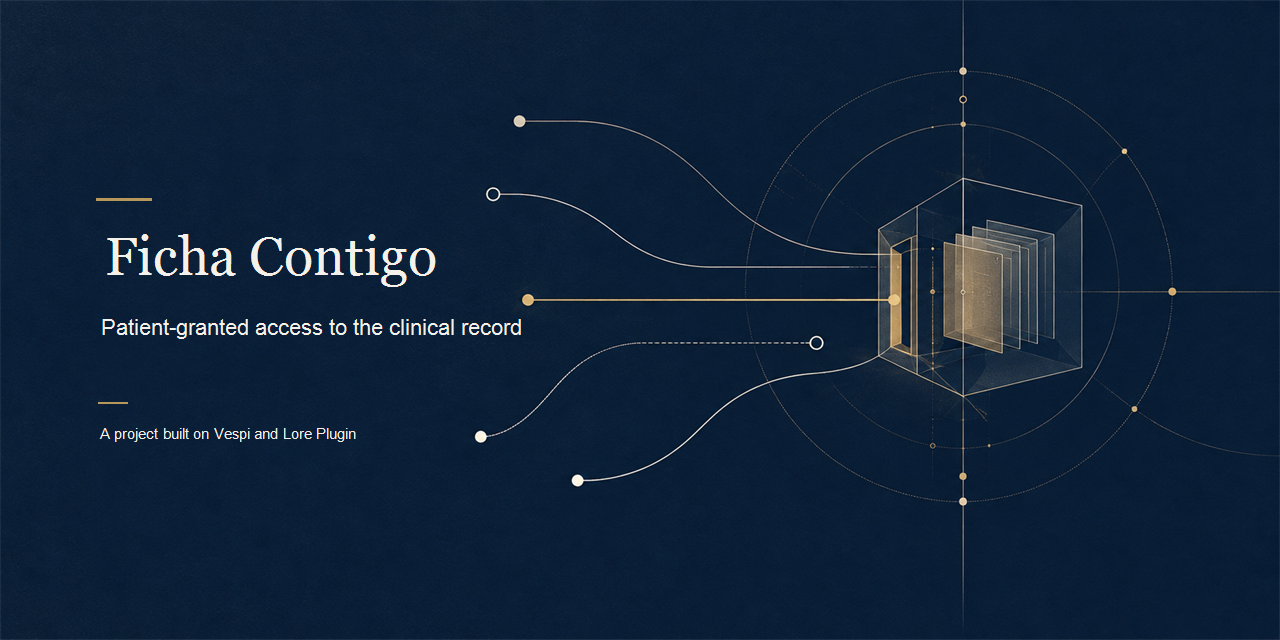
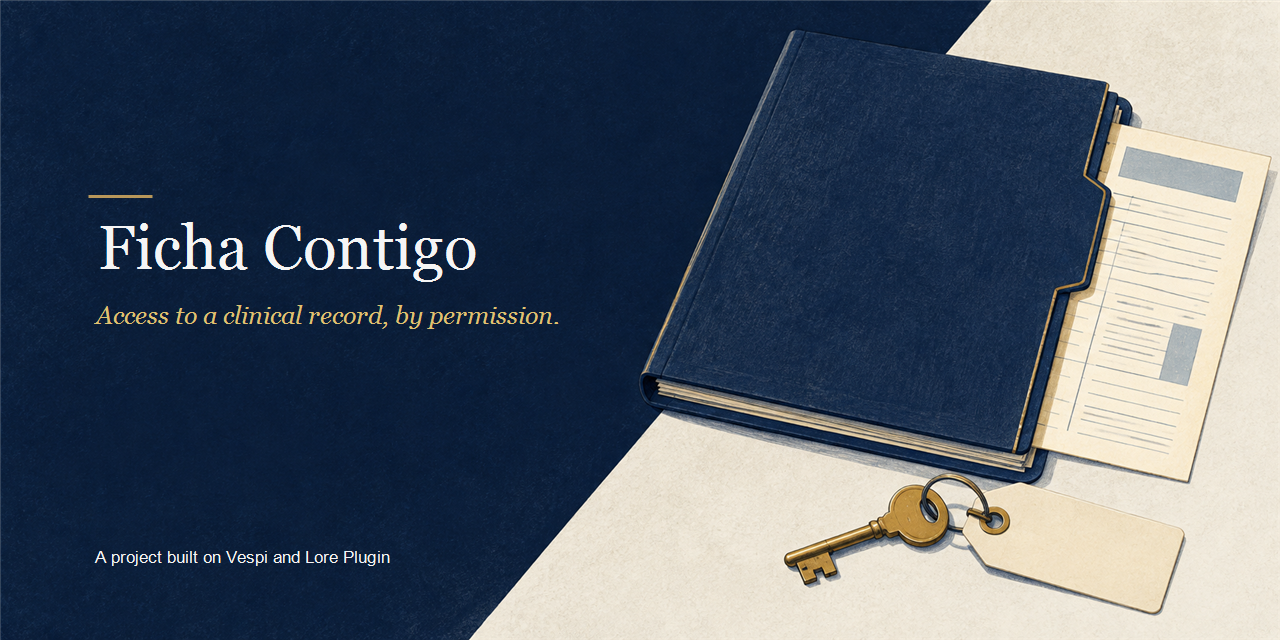
README rewritten to the Lore Plugin level: usage example, own cover, fixed badges, developed ideas
Claude-Session: https://claude.ai/code/session_01MzacQCHxRj488GX1bfBMgo

diff --git a/README.md b/README.md
@@ -1,78 +1,139 @@
-[![Ficha Contigo: patient-granted clinical record access](./assets/cover.png)](./assets/cover.png)
+[![Ficha Contigo: patient-granted access to a clinical record](./assets/cover.png)](./assets/cover.png)
 
 # Ficha Contigo
 
 <p align="center">
-  <a href="#english"><img src="https://img.shields.io/badge/status-working_path-D7B698?style=for-the-badge&labelColor=07111A" alt="Status: working path"></a>
+  <a href="#espanol"><img src="https://img.shields.io/badge/status-working_path-D7B698?style=for-the-badge&labelColor=07111A" alt="Status: working path"></a>
   <a href="./LICENSE"><img src="https://img.shields.io/badge/license-review--only-D7B698?style=for-the-badge&labelColor=07111A" alt="License: review only"></a>
   <a href="./docs/EVIDENCE.md"><img src="https://img.shields.io/badge/suite-7_of_13-E0C170?style=for-the-badge&labelColor=07111A" alt="Suite: 7 of 13 pass today"></a>
-  <a href="./docs/HOW_IT_WORKS.md"><img src="https://img.shields.io/badge/agreement-before_code-D7B698?style=for-the-badge&labelColor=07111A" alt="Agreement before code"></a>
-  <a href="https://github.com/andresanemic/vespi"><img src="https://img.shields.io/badge/built_with-Vespi_%C2%B7_Lore_Plugin-E0C170?style=for-the-badge&labelColor=07111A" alt="Built with Vespi and Lore Plugin"></a>
+  <a href="./docs/HOW_IT_WORKS.md"><img src="https://img.shields.io/badge/agreement-written_before_code-D7B698?style=for-the-badge&labelColor=07111A" alt="Agreement written before code"></a>
+  <a href="https://github.com/andresanemic/vespi"><img src="https://img.shields.io/badge/built_with-Vespi_and_Lore_Plugin-E0C170?style=for-the-badge&labelColor=07111A" alt="Built with Vespi and Lore Plugin"></a>
 </p>
 
-<p align="center">
-  <b>Ficha Contigo puts each patient's permission at the door: a provider can use only the record part, purpose and time the patient granted.</b><br><br>
-  Emergency access is granted in advance, leaves an immediate receipt and stays open for a human review.
-</p>
-
-<p align="center">
-  Do you build on Stellar, or are you judging Find Your Way or Meridian? Start with the agreement, then inspect the flow and the evidence.
-</p>
-
-<p align="center">
-  This repository contains the project agreement, documentation and recorded evidence, not the source code. The code will open during the judges' review period under a review-only license that permits reading and cloning for evaluation.
-</p>
-
----
-
-<details>
+<details open>
 <summary><b>Read in English</b></summary>
 
 <a id="english"></a>
 
-**Ficha Contigo is a local prototype that makes patient-granted clinical record access visible, scoped and reviewable.**
+**Ficha Contigo gives a patient a visible say over who may open each part of a clinical record, for what purpose and for how long.**
 
-> **Its unit is the part of the record the patient allowed, for a purpose, until a time.**
+> **The unit is the part of the record the patient allowed, for a purpose and until a time. Emergency access is granted in advance.**
 
-All people, institutions and records are fictional; no real health or identifying data is present. The agreement, workflow and boundaries are explained in [`docs/HOW_IT_WORKS.md`](./docs/HOW_IT_WORKS.md).
+## The problem
 
-**Why.** When a person gives clinical data to an institution, it can be hard for them to see who asked for which part, for what purpose, and what was accessed. An urgent situation can also leave the patient unable to answer at the time. Ficha Contigo explores a clear boundary: a professional's reason alone does not grant access. [`docs/HOW_IT_WORKS.md`](./docs/HOW_IT_WORKS.md) explains the patient-granted scope and advance emergency mandate.
+When a person hands clinical information to an institution, the relationship can become hard to inspect from the patient's side. Which professional asked for which part? For what purpose? What was actually opened? A professional may have a sound reason to ask, but the reason alone does not tell the patient what crossed the boundary. And when the patient cannot answer during an emergency, a team may face an uncomfortable choice between waiting and improvising access.
 
-**If you are judging Find Your Way or Meridian, start here.**
+Ficha Contigo makes that boundary the subject of a small local prototype. The patient grants a named part of a fictional record, for a declared purpose, at a named institution, within a time window and use budget. A separate emergency mandate can be granted beforehand. If used, it leaves an immediate record and a human review that stays open until the patient or a designated reviewer closes it.
 
-1. **Read the agreement.** [`docs/HOW_IT_WORKS.md`](./docs/HOW_IT_WORKS.md) sets out the patient-granted rules.
-2. **Follow one request.** [`docs/HOW_IT_WORKS.md`](./docs/HOW_IT_WORKS.md#a-request-from-start-to-finish) walks through the ordinary and emergency paths.
-3. **Open the evidence.** [`docs/EVIDENCE.md`](./docs/EVIDENCE.md) reports the suite and recorded walkthrough.
-4. **Read the limits.** [`docs/LEGAL_AND_LIMITS.md`](./docs/LEGAL_AND_LIMITS.md) records the legal context and open questions.
-5. **Check what remains unverified.** [`docs/EVIDENCE.md`](./docs/EVIDENCE.md#current-suite) and [`docs/LEGAL_AND_LIMITS.md`](./docs/LEGAL_AND_LIMITS.md#what-the-project-does-not-establish) explain the current status and limits.
+## If you are judging Find Your Way or Meridian, start here
+
+Read the project foundation and its walkthrough. Start with [How it works](./docs/HOW_IT_WORKS.md).
+
+Open the test record. See [Evidence](./docs/EVIDENCE.md).
+
+Read the legal and verification limits. See [Legal and limits](./docs/LEGAL_AND_LIMITS.md).
+
+Review the publication conditions. See [Code not included](./docs/CODE_NOT_INCLUDED.md) and the [review-only license](./LICENSE).
 
 ## In one minute
 
-The fictional request, its checks, receipts and emergency review are shown in [`docs/HOW_IT_WORKS.md`](./docs/HOW_IT_WORKS.md#a-request-from-start-to-finish).
+In the recorded fictional case, `persona-1` has three example parts: a laboratory result, an imaging report and personal history. `prof-1` first asks for the laboratory result to continue treatment. The request is blocked because a stated purpose is not permission. The patient then grants only that part, at one institution, for two accesses and until a stated date. One in-scope read is recorded as verified and returns an example value. A request for the imaging report falls outside the grant and is blocked. Later, the patient can revoke the permission without erasing the earlier read. For an emergency, she has separately granted a mandate in advance; exercising it opens a review that remains pending until she closes it. All people, institutions, record contents and values in this walkthrough are fictional.
 
-## Why Ficha Contigo
+## What it looks like in practice
 
-In the intended model, the clinical record stays with the institution; this local prototype does not connect to one. The agreement document explains the access rules, and [`docs/LEGAL_AND_LIMITS.md`](./docs/LEGAL_AND_LIMITS.md) lists what the prototype does not establish.
+The English lines below render the Spanish output recorded by the terminal walkthrough. The source transcript marks its value as an example, and the Spanish section reproduces that output. This public repository does not include source code or a runnable command today.
+
+```text
+Fictional example: persona-1, prof-1, part-1
+part-1  laboratory result  v1
+
+Request, before the patient grants access
+status:   blocked
+detail:   no authorization for prof-1 to open part-1: a stated purpose does not open the door
+exit:     return to the patient for a permission with purpose and scope
+```
+
+After a separate grant for that part, purpose, institution, time and use budget, the recorded walkthrough continues:
+
+```text
+authorization: prof-1 may open part-1, 2 accesses, until 2026-10-01
+status:        verified
+detail:        access was within the grant and the verifier recomputed it from the record
+delivered:     EXAMPLE VALUE: 7.4
+```
+
+The same permission does not cover another part. The recorded block says the authorization opens `part-1` while the request asks for `part-2`. In the emergency path, the patient has already granted a one-use mandate with a review deadline. The access leaves a pending review; the professional who used it cannot close that review, and the audit does not treat it as closed until the patient side does. The detailed Spanish walkthrough in [How it works](./docs/HOW_IT_WORKS.md) and the recorded evidence in [Evidence](./docs/EVIDENCE.md) show the full sequence.
 
 ## How it works
 
-The request flow, actors and rules are detailed in [`docs/HOW_IT_WORKS.md`](./docs/HOW_IT_WORKS.md).
+```text
+Patient grants purpose + record part + institution + expiry + uses
+                              |
+Professional requests access |
+                              v
+                 purpose, scope, time, uses,
+                    revocation and fingerprint
+                    /                     \
+               blocked                   allowed
+             with a reason                   |
+                                      access + receipt
+                                             |
+                                independent recomputation
+
+Advance emergency mandate -> access + immediate receipt
+                           -> open review
+                           -> patient or designee closes it
+```
+
+| Actor | Rights in the model | Limit |
+|---|---|---|
+| Patient | Grant and revoke ordinary access, grant an emergency mandate in advance, read the record and close its later review | Revocation works forward. It does not erase an access that already happened. |
+| Institution | Hold the example record and act within the patient's grant | It is fictional; no real provider or record is connected. |
+| Treating or later professional | Request access for a declared purpose | A request or professional reason alone is not permission; a request outside scope is blocked. |
+| Emergency professional | Use an emergency mandate already granted by the patient | Without the advance grant there is no emergency access; the user of that access cannot close its review. |
+| Verifier | Recompute recorded access and check receipt integrity | It checks the record, not medical truth, identity or legal compliance. |
+
+The complete rule set, including what happens when the part changes, is in [How it works](./docs/HOW_IT_WORKS.md).
+
+## Why Ficha Contigo
+
+| You need | What it gives you | Where it lives |
+|---|---|---|
+| Permission for one part, not a whole record | A named part, purpose, institution, expiry and use budget | [How it works](./docs/HOW_IT_WORKS.md) |
+| A change to stop matching an earlier permission | The grant carries the part's fingerprint; a mismatch is blocked | [How it works](./docs/HOW_IT_WORKS.md) |
+| A way to withdraw future access | Patient revocation blocks later access while the earlier event stays recorded | [How it works](./docs/HOW_IT_WORKS.md) |
+| An emergency path that was agreed in advance | A separate mandate, immediate receipt and later human review | [How it works](./docs/HOW_IT_WORKS.md) |
+| A record the patient can inspect independently | A local JSONL record intended to be readable without Ficha Contigo | [Evidence](./docs/EVIDENCE.md) |
+| A check beyond the executor's claim | Verification recomputes recorded access and checks the receipt | [Evidence](./docs/EVIDENCE.md) |
+
+## What it is not
+
+Ficha Contigo is not an electronic health record, a clinical system, a provider integration, an identity service, a medical decision-maker or a compliance claim. The public repository currently contains the agreement, documentation and recorded evidence, not source code. Its example data is fictional and local.
 
 ## Evidence you can open
 
-[`docs/EVIDENCE.md`](./docs/EVIDENCE.md) contains the current suite report, earlier run, named cases, recorded walkthrough and instructions for rerunning when the source opens.
+The supplied current suite record reports **7 passing and 6 failing tests out of 13**. Thirteen cases were written before implementation. In the first red run, twelve behavior cases failed against the module skeleton, while the kernel digest guard passed against the then-pinned cut. A later recorded run reports 13/13 against that cut. The present run is a different result: the project pins each consumed kernel module by digest, and the installed kernel moved after the project was built against cut `54c20c7`. Five behavioral cases now fail and the exact-pin case also fails. The pin has not yet been deliberately reassessed and the suite has not been rerun against a newly chosen cut. This is a visible compatibility check and unfinished work, not a claim that the present suite is green. Details and test names are in [Evidence](./docs/EVIDENCE.md).
+
+The recorded walkthrough covers an in-scope access, blocks for missing or excessive permission, content correction and fingerprint mismatch, revocation, advance-granted emergency access, an open and later closed review, budget and expiry blocks, simulated zero-knowledge flow, receipts and an independent audit. It reports the Stellar anchor as `pending`; nothing reached a network. The records are project evidence, not an external clinical or security audit.
 
 ## Ficha Contigo, Vespi and Lore Plugin
 
-Ficha Contigo is one of ten functional projects built on [Vespi](https://github.com/andresanemic/vespi) with [Lore Plugin](https://github.com/andresanemic/lore-plugin). It consumes the Vespi kernel without modifying it.
+Ficha Contigo is one of the functional projects built on [Vespi](https://github.com/andresanemic/vespi) with [Lore Plugin](https://github.com/andresanemic/lore-plugin). It consumes Vespi's kernel without changing it. The project uses the kernel for bounded authority, permission checks, receipts and verification primitives. Its patient-facing language translates kernel states such as `blocked` and `verified` into Spanish reasons and outcomes. The emergency mandate and the obligation to leave a human review open belong to Ficha Contigo's project layer, not to kernel 0.1.3. Its zero-knowledge demonstration is labeled simulated; the kernel verifier for that capability was deferred to 0.1.4.
 
 ## What it does not do, and what is not verified
 
-The legal context, operational boundaries and items not yet verified are recorded in [`docs/LEGAL_AND_LIMITS.md`](./docs/LEGAL_AND_LIMITS.md) and [`docs/EVIDENCE.md`](./docs/EVIDENCE.md).
+- It does not hold real clinical or identifying data, connect to a provider, implement FHIR or make a real clinical decision.
+- It has no live emergency service, network operation, blockchain anchor or Stellar testnet transaction. The recorded anchor remains `pending`.
+- Its zero-knowledge flow is simulated. There is no real proof, circuit or verifier in this project.
+- It does not establish identity, professional credentials, medical truth, informed consent, legal validity or compliance with any law.
+- The regulation contemplated by article 13 of Law 21.668 was not read or verified, and no competent legal professional has reviewed the project.
+- The present suite needs a deliberate kernel re-pin and a fresh run. Passing tests and a recorded walkthrough do not show readiness for clinical use.
+
+See [Legal and limits](./docs/LEGAL_AND_LIMITS.md) for the legal context and open questions, and [Evidence](./docs/EVIDENCE.md) for the suite status.
 
 ## How to review this project
 
-The release conditions are in [`CODE_NOT_INCLUDED.md`](./CODE_NOT_INCLUDED.md) and the review-only [LICENSE](./LICENSE). [`docs/EVIDENCE.md`](./docs/EVIDENCE.md) gives the rerun procedure for when the source opens.
+Start with [How it works](./docs/HOW_IT_WORKS.md), then compare the named tests and recorded runs in [Evidence](./docs/EVIDENCE.md). Read [Legal and limits](./docs/LEGAL_AND_LIMITS.md) and [Code not included](./docs/CODE_NOT_INCLUDED.md) before drawing conclusions. The source code will be published during the judges' review period under the [review-only license](./LICENSE), which permits reading and cloning for evaluation. When it opens, inspect the kernel digest pin before running `npm test`; a new run should state which kernel cut it exercised.
 
 ## Author
 
@@ -82,67 +143,141 @@ The release conditions are in [`CODE_NOT_INCLUDED.md`](./CODE_NOT_INCLUDED.md) a
 
 ---
 
-[How it works](./docs/HOW_IT_WORKS.md) · [Evidence](./docs/EVIDENCE.md) · [Legal and limits](./docs/LEGAL_AND_LIMITS.md) · [Code not included](./CODE_NOT_INCLUDED.md) · [Review-only license](./LICENSE) · [Vespi](https://github.com/andresanemic/vespi) · [Lore Plugin](https://github.com/andresanemic/lore-plugin)
+[How it works](./docs/HOW_IT_WORKS.md) · [Evidence](./docs/EVIDENCE.md) · [Legal and limits](./docs/LEGAL_AND_LIMITS.md) · [Code not included](./docs/CODE_NOT_INCLUDED.md) · [Review-only license](./LICENSE) · [Vespi](https://github.com/andresanemic/vespi) · [Lore Plugin](https://github.com/andresanemic/lore-plugin)
 
 </details>
 
-<details>
+<details open>
 <summary><b>Leer en español</b></summary>
 
 <a id="espanol"></a>
 
-**Ficha Contigo es un prototipo local de acceso a fichas clínicas autorizado por pacientes.**
+**Ficha Contigo hace visible la decisión de la paciente sobre quién puede abrir cada parte de una ficha clínica, para qué y por cuánto tiempo.**
 
-> **La unidad es la parte de la ficha que la paciente permitió, para un propósito y hasta una fecha.**
+> **La unidad es la parte de la ficha que la paciente autorizó, para un propósito y hasta una fecha. El acceso de emergencia se concede por adelantado.**
 
-Todas las personas, instituciones y fichas son ficticias; no hay datos reales de salud ni datos personales reales. [`docs/HOW_IT_WORKS.md`](./docs/HOW_IT_WORKS.md) explica el acuerdo, el flujo y sus límites.
+## El problema
 
-**Por qué.** Cuando una persona entrega datos clínicos a una institución, puede ser difícil saber quién pidió qué parte, para qué y qué se consultó. En una urgencia, la persona también podría no estar en condiciones de responder en ese momento. Ficha Contigo explora un límite claro: el motivo profesional por sí solo no da acceso. [`docs/HOW_IT_WORKS.md`](./docs/HOW_IT_WORKS.md) explica el alcance concedido por la paciente y el mandato de emergencia previo.
+Cuando una persona entrega información clínica a una institución, desde su lado puede ser difícil reconstruir quién pidió qué parte, para qué y qué se abrió en realidad. Un profesional puede tener un motivo atendible para solicitar acceso, pero ese motivo por sí solo no le muestra a la paciente qué cruzó el límite. Y si ella no puede responder durante una urgencia, el equipo puede quedar ante una decisión incómoda: esperar o improvisar el acceso.
 
-**Si estás evaluando Find Your Way o Meridian, empieza aquí.**
+Ficha Contigo convierte ese límite en el tema de un prototipo local pequeño. La paciente concede una parte identificada de una ficha ficticia, para un propósito declarado, en una institución determinada, por un plazo y un número de usos. También puede otorgar por adelantado un mandato de emergencia separado. Si se ejerce, deja un registro inmediato y una revisión humana que sigue abierta hasta que la paciente o alguien designado la cierre.
 
-1. **Lee el acuerdo.** [`docs/HOW_IT_WORKS.md`](./docs/HOW_IT_WORKS.md) establece las reglas de acceso concedido por la paciente.
-2. **Sigue una solicitud.** [`docs/HOW_IT_WORKS.md`](./docs/HOW_IT_WORKS.md#una-solicitud-de-principio-a-fin) recorre las rutas ordinaria y de emergencia.
-3. **Abre la evidencia.** [`docs/EVIDENCE.md`](./docs/EVIDENCE.md) informa la suite y el recorrido registrado.
-4. **Lee los límites.** [`docs/LEGAL_AND_LIMITS.md`](./docs/LEGAL_AND_LIMITS.md) reúne el contexto legal y las preguntas abiertas.
-5. **Comprueba lo no verificado.** [`docs/EVIDENCE.md`](./docs/EVIDENCE.md#suite-actual) y [`docs/LEGAL_AND_LIMITS.md`](./docs/LEGAL_AND_LIMITS.md#lo-que-el-proyecto-no-establece) explican el estado y sus límites.
+## Si estás evaluando Find Your Way o Meridian, empieza aquí
+
+Lee la base del proyecto y su recorrido. Empieza por [Cómo funciona](./docs/HOW_IT_WORKS.md).
+
+Abre el registro de pruebas. Consulta [Evidencia](./docs/EVIDENCE.md).
+
+Lee los límites jurídicos y de verificación. Consulta [Marco legal y límites](./docs/LEGAL_AND_LIMITS.md).
+
+Revisa las condiciones de publicación. Consulta [Código no incluido](./docs/CODE_NOT_INCLUDED.md) y la [licencia de solo revisión](./LICENSE).
 
 ## En un minuto
 
-La solicitud ficticia, sus comprobaciones, recibos y revisión de emergencia se describen en [`docs/HOW_IT_WORKS.md`](./docs/HOW_IT_WORKS.md#una-solicitud-de-principio-a-fin).
+En el caso ficticio registrado, `persona-1` tiene tres partes de ejemplo: un resultado de laboratorio, un informe de imagenología y antecedentes personales. `prof-1` pide primero el resultado para dar continuidad al tratamiento. La solicitud se bloquea porque declarar un propósito no equivale a tener permiso. Luego la paciente concede solo esa parte, en una institución, para dos accesos y hasta una fecha definida. Una lectura dentro del alcance queda registrada como verificada y devuelve un valor de ejemplo. Una solicitud del informe de imagenología queda fuera del permiso y se bloquea. Más tarde, la paciente puede revocar la autorización sin borrar la lectura anterior. Para una emergencia ya había concedido otro mandato por adelantado; al ejercerlo se abre una revisión que sigue pendiente hasta que ella la cierra. Todas las personas, instituciones, partes y valores del recorrido son ficticios.
 
-## Por qué Ficha Contigo
+## Cómo se ve en la práctica
 
-En el modelo previsto, la ficha clínica permanece en la institución; este prototipo local no se conecta con una. El acuerdo explica las reglas de acceso y [`docs/LEGAL_AND_LIMITS.md`](./docs/LEGAL_AND_LIMITS.md) enumera lo que el prototipo no establece.
+Los datos del recorrido son ficticios, como indica su registro. Las siguientes líneas de salida se reproducen en su idioma original; el valor se marca expresamente como ejemplo. Este repositorio no incluye hoy el código fuente ni un comando ejecutable.
+
+```text
+parte-1  resultado de laboratorio  v1  huella 207379441beefced…
+
+estado:   bloqueado
+detalle:  no hay autorización de prof-1 para parte-1: un propósito declarado no abre la puerta
+salida:   vuelve a la paciente: otorga un permiso con propósito y alcance, o deja la petición anotada sin contestar
+```
+
+Después de una autorización separada para esa parte, propósito, institución, plazo y presupuesto de usos, el recorrido registrado continúa:
+
+```text
+aut-1: prof-1 abre parte-1, 2 accesos, hasta 2026-10-01, con la huella que tiene hoy.
+estado:       verificado
+detalle:      el acceso ocurrió dentro de lo otorgado y el verificador lo recalculó desde el registro
+entregado:    VALOR DE EJEMPLO: 7,4
+```
+
+Ese permiso no cubre otra parte. El bloqueo registrado dice que la autorización abre `parte-1` mientras la solicitud pide `parte-2`. En la ruta de emergencia, la paciente ya había otorgado un mandato de un uso con plazo de revisión. El acceso deja una revisión pendiente; el profesional que lo usó no puede cerrarla y la auditoría no la considera cerrada hasta que lo haga la paciente o alguien designado. [Cómo funciona](./docs/HOW_IT_WORKS.md) presenta el recorrido completo y [Evidencia](./docs/EVIDENCE.md) conserva el registro de lo que se observó.
 
 ## Cómo funciona
 
-El recorrido de la solicitud, los actores y las reglas están detallados en [`docs/HOW_IT_WORKS.md`](./docs/HOW_IT_WORKS.md).
+```text
+La paciente concede propósito + parte + institución + plazo + usos
+                              |
+El profesional solicita acceso |
+                              v
+                propósito, alcance, plazo, usos,
+                 revocación y huella del contenido
+                    /                     \
+               bloqueado                permitido
+              con su razón                   |
+                                      acceso + recibo
+                                             |
+                                recálculo independiente
+
+Mandato de emergencia previo -> acceso + recibo inmediato
+                              -> revisión queda abierta
+                              -> la paciente o designada la cierra
+```
+
+| Actor | Derechos en el modelo | Límite |
+|---|---|---|
+| Paciente | Conceder y revocar acceso ordinario, otorgar un mandato de emergencia por adelantado, leer el registro y cerrar su revisión posterior | La revocación rige hacia adelante. No borra un acceso que ya ocurrió. |
+| Institución | Guardar la ficha de ejemplo y actuar dentro de lo que autorizó la paciente | Es ficticia; no hay prestador ni ficha real conectados. |
+| Profesional tratante o posterior | Solicitar acceso para un propósito declarado | La solicitud o un motivo profesional por sí solos no son permiso; una petición fuera del alcance se bloquea. |
+| Profesional de emergencia | Usar un mandato que la paciente ya otorgó | Sin autorización previa no hay acceso de emergencia; quien lo ejerció no puede cerrar la revisión. |
+| Verificador | Recalcular el acceso registrado y comprobar la integridad de los recibos | Revisa el registro, no la verdad médica, la identidad ni el cumplimiento legal. |
+
+Las reglas completas, incluido qué ocurre si cambia una parte de la ficha, están en [Cómo funciona](./docs/HOW_IT_WORKS.md).
+
+## Por qué Ficha Contigo
+
+| Necesitas | Qué te da | Dónde vive |
+|---|---|---|
+| Un permiso para una parte concreta, no para toda la ficha | Una parte, propósito, institución, vencimiento y presupuesto de usos identificados | [Cómo funciona](./docs/HOW_IT_WORKS.md) |
+| Que un cambio deje de coincidir con el permiso anterior | La autorización lleva la huella de la parte; si no coincide, el acceso se bloquea | [Cómo funciona](./docs/HOW_IT_WORKS.md) |
+| Retirar accesos futuros | La revocación de la paciente bloquea accesos posteriores y conserva el evento anterior | [Cómo funciona](./docs/HOW_IT_WORKS.md) |
+| Una ruta de emergencia acordada de antemano | Un mandato separado, recibo inmediato y revisión humana posterior | [Cómo funciona](./docs/HOW_IT_WORKS.md) |
+| Un registro que la paciente pueda revisar por separado | Un registro JSONL local que se puede leer sin Ficha Contigo | [Evidencia](./docs/EVIDENCE.md) |
+| Una comprobación más allá de lo que afirma quien ejecutó | La verificación recalcula el acceso registrado y comprueba el recibo | [Evidencia](./docs/EVIDENCE.md) |
+
+## Lo que no es
+
+Ficha Contigo no es una ficha electrónica, un sistema clínico, una integración con prestadores, un servicio de identidad, un sistema de decisiones médicas ni una afirmación de cumplimiento. El repositorio público contiene por ahora el acuerdo, la documentación y la evidencia registrada, no el código fuente. Sus datos de ejemplo son ficticios y locales.
 
 ## Evidencia que puedes abrir
 
-[`docs/EVIDENCE.md`](./docs/EVIDENCE.md) reúne el informe de la suite, los casos nombrados, las corridas anteriores, el recorrido registrado y el procedimiento para repetir las pruebas cuando se abra el código.
+El registro de la suite actual informa **7 pruebas aprobadas y 6 fallidas de un total de 13**. Los trece casos se escribieron antes de la implementación. En la primera corrida roja fallaron doce casos de comportamiento frente al esqueleto del módulo, mientras que la comprobación del digest del kernel pasó contra el corte fijado entonces. Una corrida registrada posterior informa 13/13 contra ese corte. La corrida actual da otro resultado: el proyecto fija por digest cada módulo del kernel que consume, y el kernel instalado cambió después de que el proyecto se construyera contra el corte 54c20c7. Hoy fallan cinco casos de comportamiento y también el caso que comprueba la fijación exacta. La fijación aún no se ha reevaluado de forma deliberada y la suite no se ha vuelto a correr contra un corte nuevo elegido. Es una comprobación visible de compatibilidad y trabajo pendiente, no una suite verde. [Evidencia](./docs/EVIDENCE.md) detalla los nombres y resultados.
+
+El recorrido registrado cubre un acceso dentro del alcance, bloqueos por falta o exceso de permiso, corrección del contenido y diferencia de huellas, revocación, acceso de emergencia concedido antes, una revisión abierta y luego cerrada, bloqueos por presupuesto y vencimiento, flujo de conocimiento cero simulado, recibos y auditoría independiente. El anclaje Stellar figura como `pending`; nada llegó a una red. Son registros del proyecto, no una auditoría clínica ni de seguridad externa.
 
 ## Ficha Contigo, Vespi y Lore Plugin
 
-Ficha Contigo es uno de los diez proyectos funcionales construidos sobre [Vespi](https://github.com/andresanemic/vespi) con [Lore Plugin](https://github.com/andresanemic/lore-plugin). Consume el kernel de Vespi sin modificarlo.
+Ficha Contigo es uno de los proyectos funcionales construidos sobre [Vespi](https://github.com/andresanemic/vespi) con [Lore Plugin](https://github.com/andresanemic/lore-plugin). Consume el kernel de Vespi sin modificarlo. El proyecto usa el kernel para autoridad acotada, comprobaciones de permisos, recibos y primitivas de verificación. Su lenguaje para la paciente traduce estados del kernel como `blocked` y `verified` a razones y resultados en español. El mandato de emergencia y la obligación de dejar una revisión humana abierta pertenecen a la capa de Ficha Contigo, no al kernel 0.1.3. La demostración de conocimiento cero se identifica como simulada; el verificador del kernel para esa capacidad quedó para 0.1.4.
 
 ## Lo que no hace y lo que no está verificado
 
-El contexto legal, los límites operativos y lo que falta verificar constan en [`docs/LEGAL_AND_LIMITS.md`](./docs/LEGAL_AND_LIMITS.md) y [`docs/EVIDENCE.md`](./docs/EVIDENCE.md).
+- No guarda datos clínicos o identificatorios reales, no se conecta con un prestador, no implementa FHIR ni toma decisiones clínicas reales.
+- No tiene un servicio de emergencia activo, operación de red, anclaje en blockchain ni transacciones en Stellar testnet. El anclaje registrado sigue `pending`.
+- El flujo de conocimiento cero es simulado. Este proyecto no tiene una prueba real, circuito ni verificador.
+- No establece identidad, credenciales profesionales, verdad médica, consentimiento informado, validez legal ni cumplimiento de una norma.
+- El reglamento contemplado por el artículo 13 de la Ley 21.668 no se leyó ni verificó, y ninguna persona competente en derecho ha revisado el proyecto.
+- La suite actual requiere reevaluar deliberadamente la fijación del kernel y hacer una corrida nueva. Las pruebas que pasan y el recorrido registrado no demuestran que esté listo para uso clínico.
+
+Consulta [Marco legal y límites](./docs/LEGAL_AND_LIMITS.md) para el contexto jurídico y las preguntas abiertas, y [Evidencia](./docs/EVIDENCE.md) para el estado de la suite.
 
 ## Cómo revisar este proyecto
 
-Este repositorio no incluye el código fuente. Las condiciones de publicación están en [`CODE_NOT_INCLUDED.md`](./CODE_NOT_INCLUDED.md) y la [LICENSE](./LICENSE) de solo revisión; [`docs/EVIDENCE.md`](./docs/EVIDENCE.md) indica cómo repetir las pruebas cuando se abra el código.
+Empieza por [Cómo funciona](./docs/HOW_IT_WORKS.md) y luego compara los nombres de las pruebas con las corridas registradas en [Evidencia](./docs/EVIDENCE.md). Lee [Marco legal y límites](./docs/LEGAL_AND_LIMITS.md) y [Código no incluido](./docs/CODE_NOT_INCLUDED.md) antes de sacar conclusiones. El código fuente se publicará durante el periodo de revisión de los jueces bajo la [licencia de solo revisión](./LICENSE), que permite leer y clonar para evaluar. Cuando se abra, revisa el digest fijado del kernel antes de ejecutar `npm test`; una corrida nueva debe indicar qué corte del kernel probó.
 
 ## Autor
 
-**Andrés Peña**, autoridad del repositorio: `andresanemic`.
+**Andrés Peña**, repository authority: `andresanemic`.
 
 [<img src="./assets/icons/v2/telegram.svg" width="28" alt="Telegram">](https://t.me/andresanemic) &nbsp;&nbsp; [<picture><source media="(prefers-color-scheme: dark)" srcset="./assets/icons/v2/x-dark.svg"><img src="./assets/icons/v2/x.svg" width="28" alt="X"></picture>](https://x.com/andresanemic) &nbsp;&nbsp; [<img src="./assets/icons/v2/linkedin.svg" width="28" alt="LinkedIn">](https://www.linkedin.com/in/andresanemic/)
 
 ---
 
-[Cómo funciona](./docs/HOW_IT_WORKS.md) · [Evidencia](./docs/EVIDENCE.md) · [Marco legal y límites](./docs/LEGAL_AND_LIMITS.md) · [Código no incluido](./CODE_NOT_INCLUDED.md) · [Licencia de solo revisión](./LICENSE) · [Vespi](https://github.com/andresanemic/vespi) · [Lore Plugin](https://github.com/andresanemic/lore-plugin)
+[Cómo funciona](./docs/HOW_IT_WORKS.md) · [Evidencia](./docs/EVIDENCE.md) · [Marco legal y límites](./docs/LEGAL_AND_LIMITS.md) · [Código no incluido](./docs/CODE_NOT_INCLUDED.md) · [Licencia de solo revisión](./LICENSE) · [Vespi](https://github.com/andresanemic/vespi) · [Lore Plugin](https://github.com/andresanemic/lore-plugin)
 
 </details>

diff --git a/docs/CODE_NOT_INCLUDED.md b/docs/CODE_NOT_INCLUDED.md
@@ -1,0 +1,11 @@
+# Code not included
+
+This public repository currently contains the project agreement, explanation and recorded evidence, not source code. The review begins with the problem, the access rules, the current test record and the limits on what those records can establish.
+
+The source code is scheduled to open during the judges' review period under the [review-only license](../LICENSE). That license permits reading and cloning for evaluation. It does not grant permission to modify the code. When the source opens, review the pinned kernel digest before running `npm test`; the suite needs a deliberate re-pin and a fresh result.
+
+## Español
+
+Este repositorio público contiene por ahora el acuerdo del proyecto, su explicación y la evidencia registrada, no el código fuente. La revisión comienza por el problema, las reglas de acceso, el registro actual de pruebas y los límites de lo que esos registros permiten concluir.
+
+Está previsto abrir el código durante el periodo de revisión de los jueces bajo la [licencia de solo revisión](../LICENSE). La licencia permite leer y clonar para evaluar. No concede permiso para modificar el código. Cuando se publique, revisa el digest fijado del kernel antes de ejecutar `npm test`; la suite requiere una nueva fijación deliberada y un resultado fresco.
